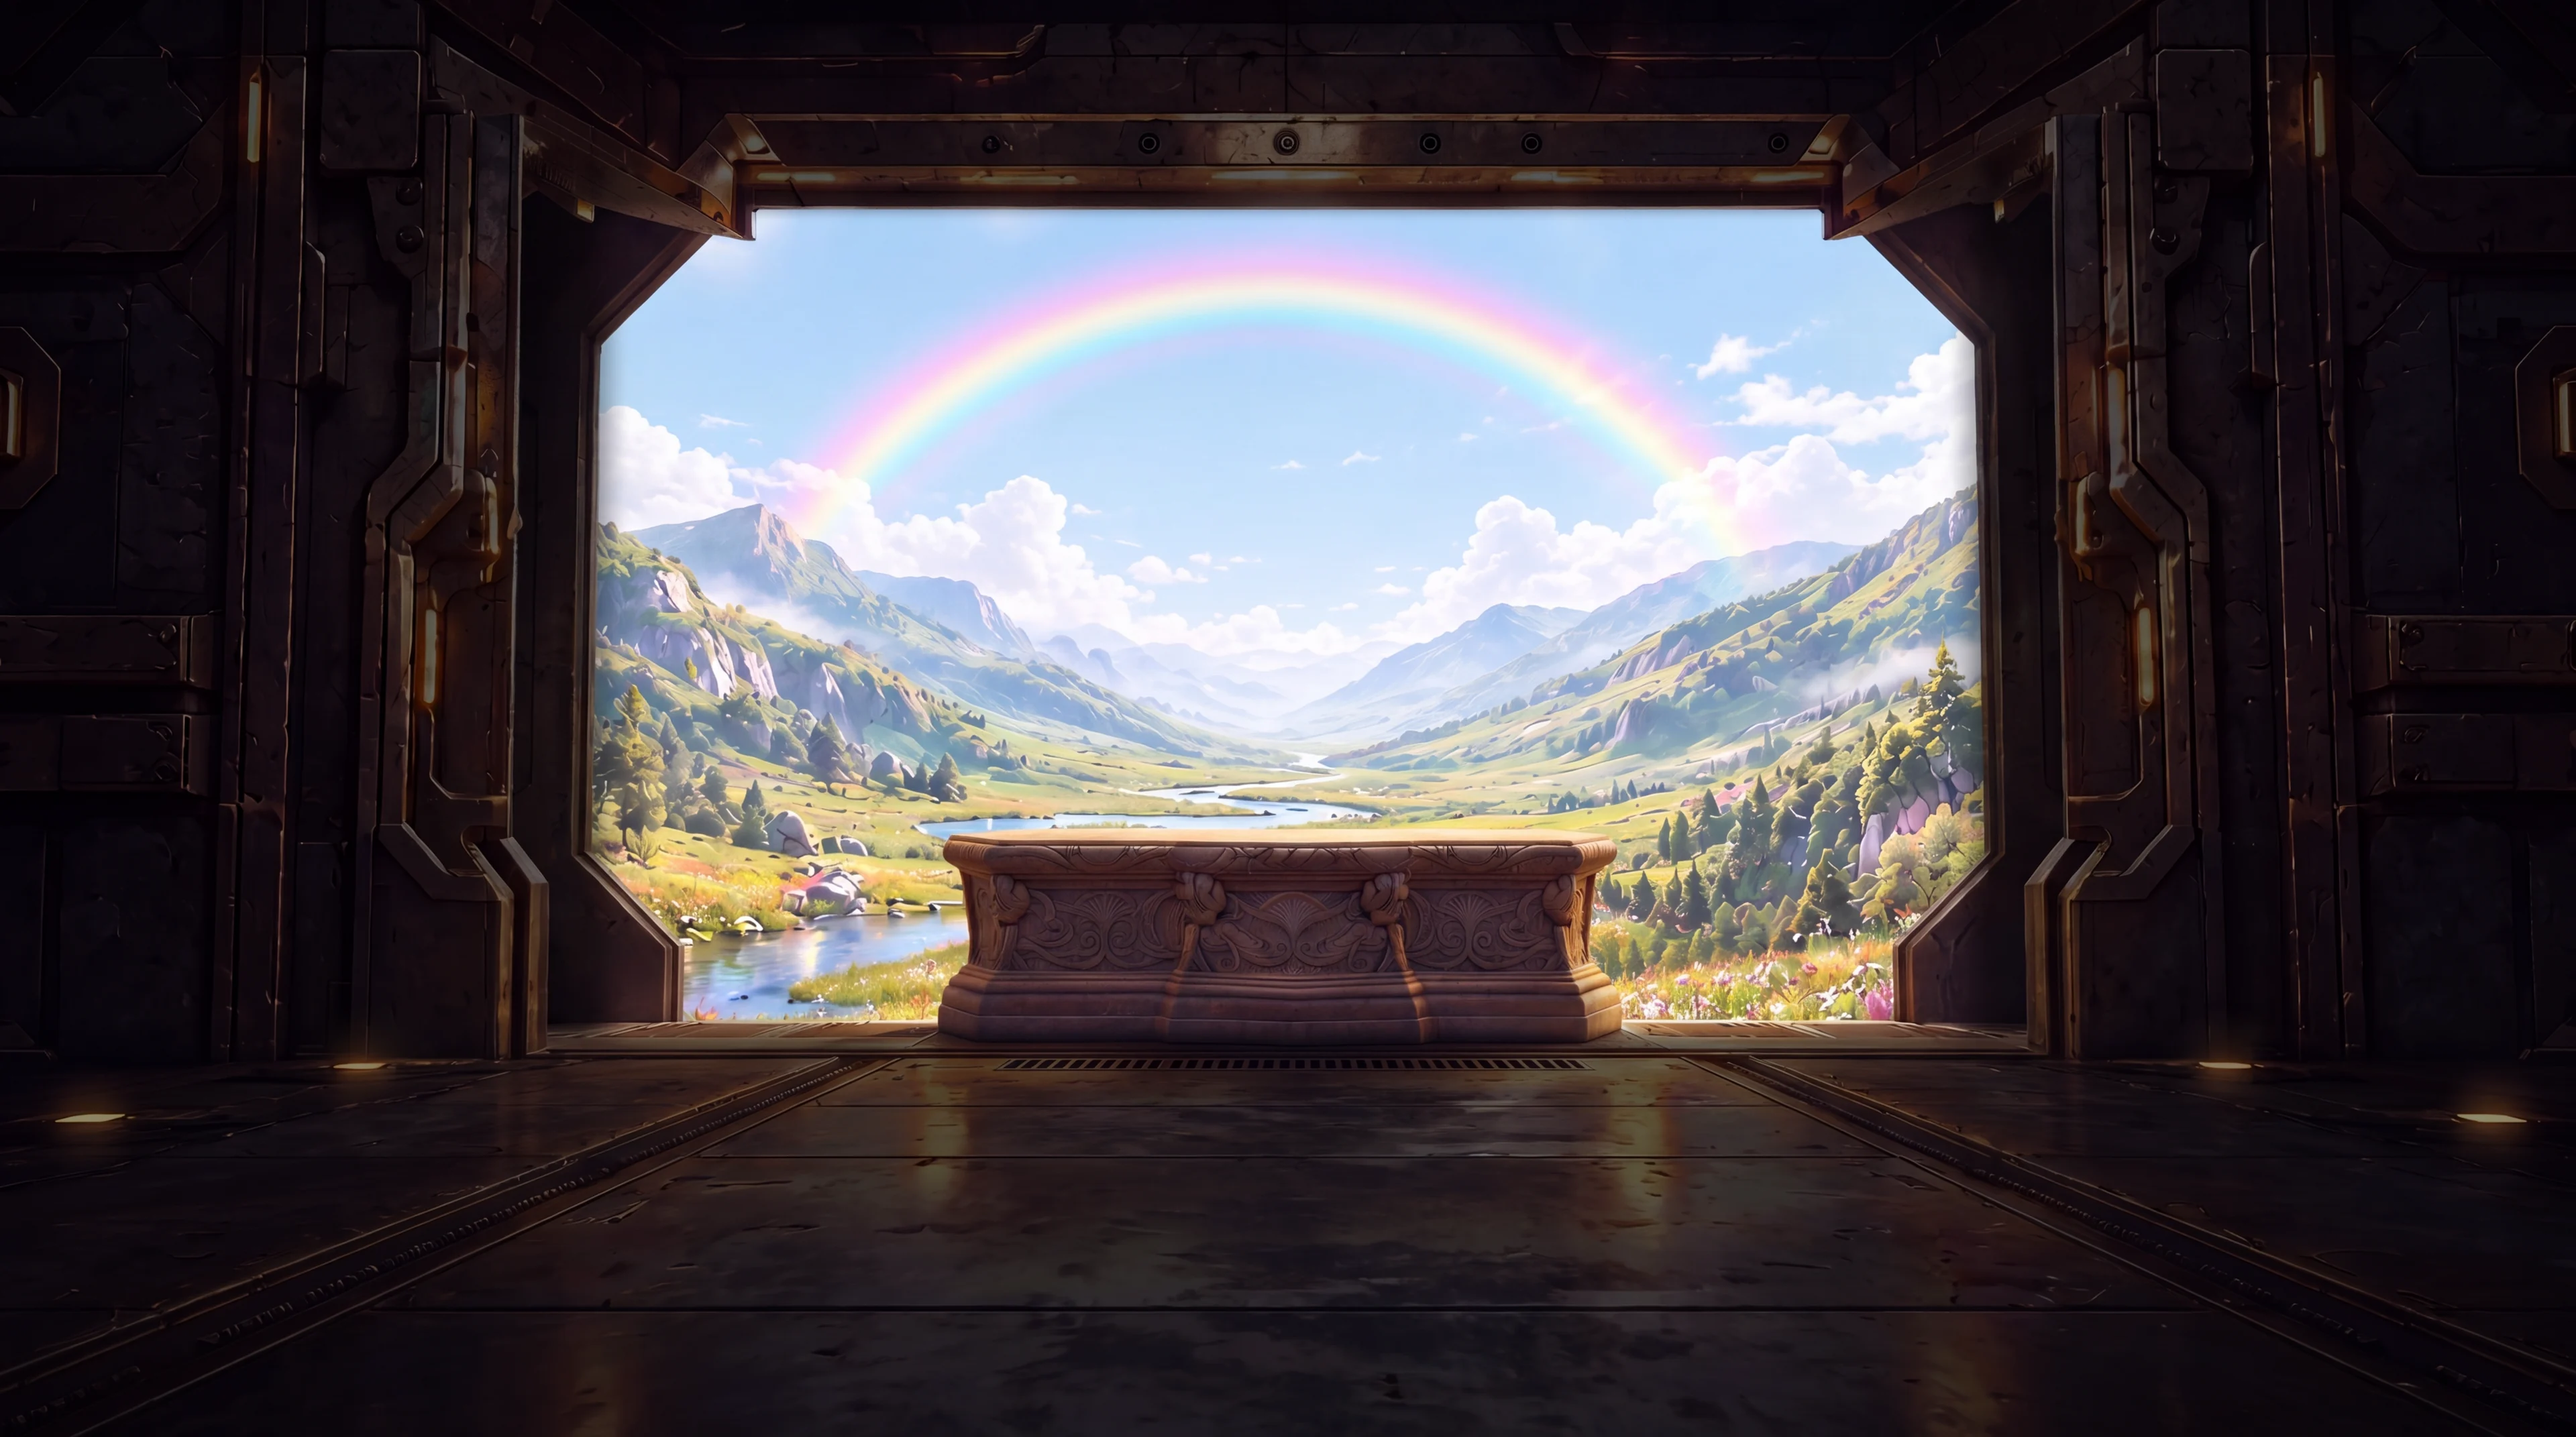
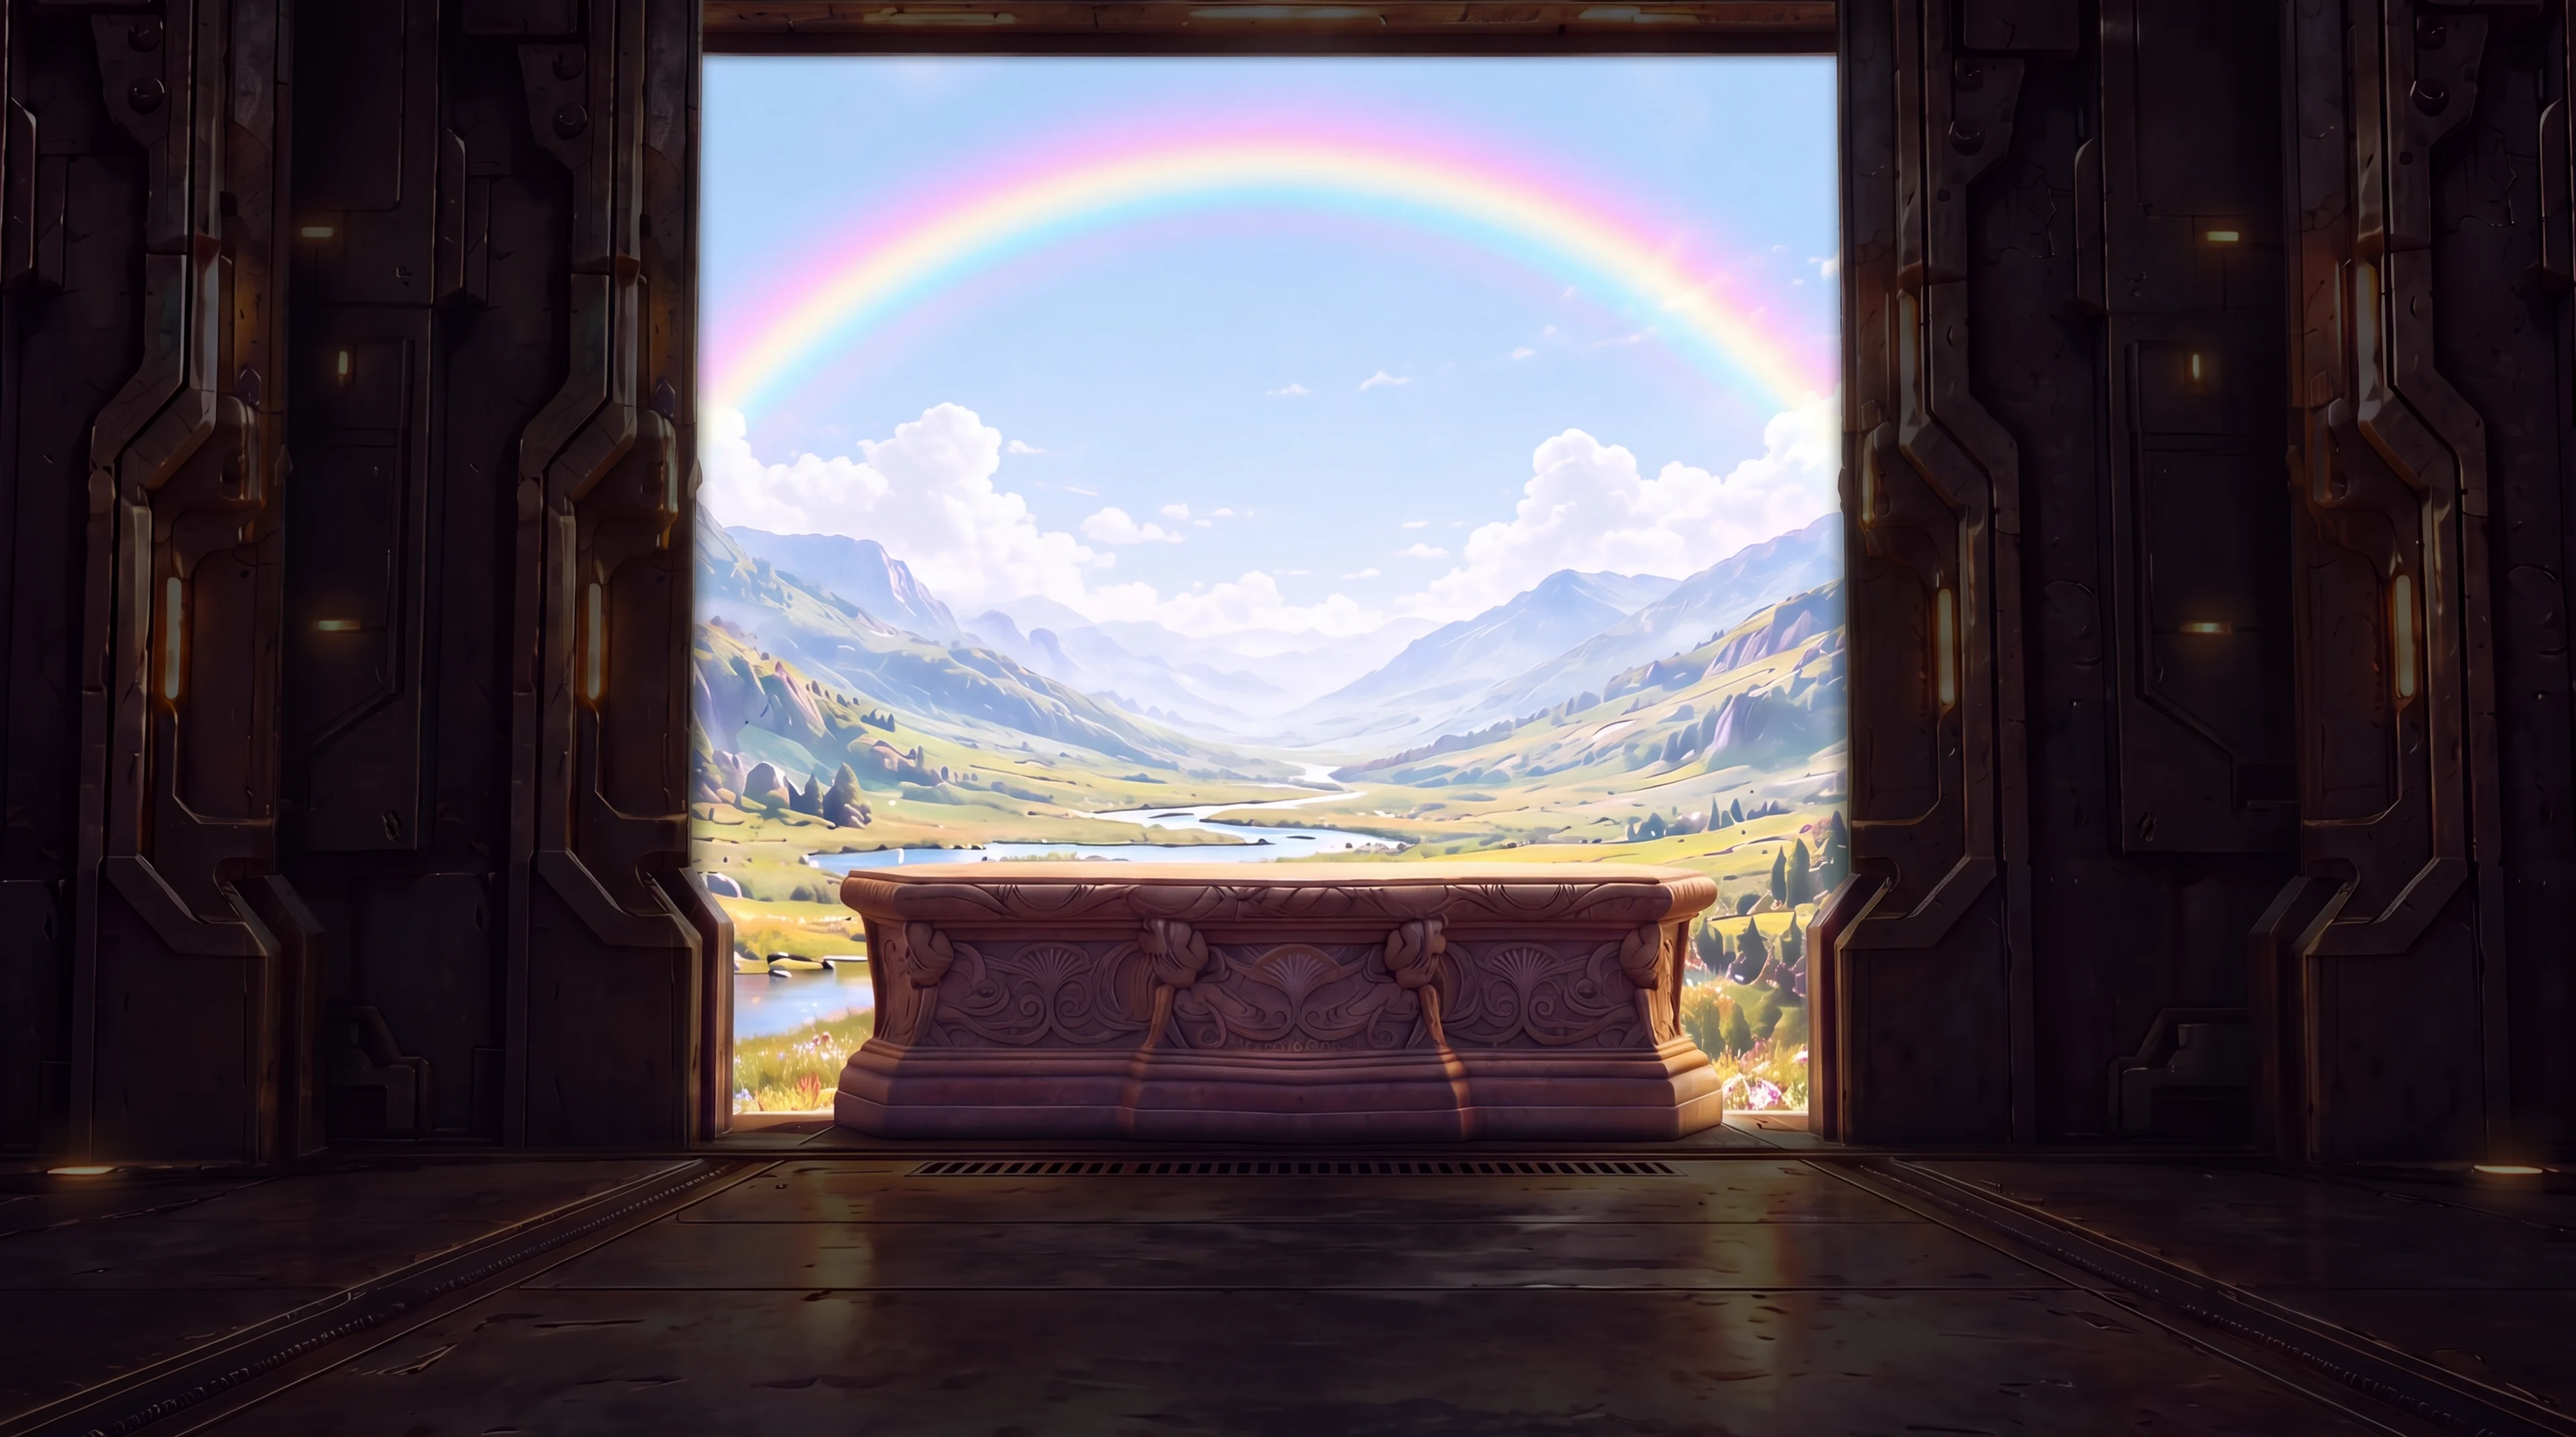
Anuncio del ganador más cerca y con la puerta más angosta
Fondo acercado (pedestal al 60,5% del alto, con su frente detrás de los
datos) y editado con Gemini para que la abertura vaya del 27% al 72% del
ancho: las zonas de los presentadores son pared de metal oscuro. El texto
de arriba pasa a blanco con sombra para leerse sobre el cielo.

diff --git a/index.html b/index.html
@@ -133,7 +133,7 @@ body.spinning .pointer-wrap { animation: none; }
 /* Revelación del ganador: superficie Mystery, solo dentro de la columna central */
 /* Anuncio del ganador: fondo de la bóveda abierta al valle en todo el escenario (metal oscuro en los
    lados de los presentadores). Arriba el nombre sobre el cielo, la moto y Gali sobre el pedestal
-   (su parte de arriba está al 58% del alto) y abajo los datos sobre el suelo (desde el 72%). */
+   (su parte de arriba está al 61% del alto y su frente queda detrás de los datos de abajo). */
 .winner-bg {
   position: absolute; inset: 0; z-index: 4;
   background: url("assets/fondo-ganador.webp") center / cover no-repeat, var(--n00);
@@ -145,15 +145,15 @@ body.spinning .pointer-wrap { animation: none; }
   position: absolute; left: 0; right: 0; top: 3.2cqh; padding-inline: 2cqh;
   display: flex; flex-direction: column; align-items: center; gap: 4.2cqh;
 }
-.winner .overline { color: var(--n07); font-size: 2.2cqh; letter-spacing: .18em; font-weight: 600; }
+.winner .overline { color: var(--n09); font-size: 2.2cqh; letter-spacing: .18em; font-weight: 700; text-shadow: 0 .2cqh .5cqh rgba(10,11,12,.8), 0 0 1.6cqh rgba(10,11,12,.6); }
 .winner .gali-king {
-  position: absolute; left: 21.1cqh; bottom: 41.6cqh; height: 24cqh; width: auto;
+  position: absolute; left: 20.3cqh; bottom: 39.5cqh; height: 25cqh; width: auto;
   filter: drop-shadow(0 1.2cqh 1.2cqh rgba(0,0,0,.55));
   animation: king .7s .15s cubic-bezier(.2, 1.5, .4, 1) both;
 }
 @keyframes king { from { transform: translateY(40%) scale(.6); opacity: 0; } }
 .winner .prize-img {
-  position: absolute; left: 33.9cqh; bottom: 41.6cqh; height: 30cqh; width: auto; object-fit: contain;
+  position: absolute; left: 32.8cqh; bottom: 39.5cqh; height: 32cqh; width: auto; object-fit: contain;
   filter: drop-shadow(0 1.2cqh 1.4cqh rgba(0,0,0,.55));
   animation: ride .9s cubic-bezier(.2, 1.15, .3, 1) both;
 }

diff --git a/README.md b/README.md
@@ -64,7 +64,7 @@ Aplican a cualquier cambio, lo haga una persona o una IA.
 3. **Cada casilla mide según los tickets de su dueño.** La flecha debe detenerse dentro de la casilla del ganador. Los nombres se achican para caber en su casilla y no se dibujan si no caben legibles.
 4. **Nunca mostrar el total de tickets en juego.** Ni en pantalla ni en el panel.
 5. **El anuncio del ganador muestra:** la moto, el nombre, la empresa, la sede (Location), los juegos en el mes, el puntaje máximo y los tickets. Cada cifra lleva su ícono glow del Galiverso: flecha circular para los juegos, check para el puntaje y GaliTicket para los tickets. No mostrar el número de sorteo ni la cantidad de participantes.
-   **Composición del anuncio:** el fondo `fondo-ganador.webp` cubre todo el escenario; sus paredes y su suelo de metal son muy oscuros para no iluminar a los presentadores, y la abertura al valle coincide con la columna central. Arriba, sobre el cielo, van el texto de arriba y el nombre; la moto y Gali con corona van parados sobre el pedestal (su parte de arriba está al 58% del alto); abajo, sobre el suelo (desde el 72%), van la empresa, la sede, las cifras y los botones. Si se cambia la imagen de fondo, hay que volver a medir esas alturas.
+   **Composición del anuncio:** el fondo `fondo-ganador.webp` cubre todo el escenario; sus paredes y su suelo de metal son muy oscuros para no iluminar a los presentadores, y la abertura al valle coincide con la columna central. Arriba, sobre el cielo, van el texto de arriba y el nombre; la moto y Gali con corona van parados sobre el pedestal (su parte de arriba está al 61% del alto); abajo van la empresa, la sede, las cifras y los botones, con el frente del pedestal detrás. La abertura al valle va del 27% al 72% del ancho, dentro de la columna central: las zonas de los presentadores son pared de metal oscuro. Si se cambia la imagen de fondo, hay que volver a medir esas alturas.
 6. **Empresas excluidas por defecto:** Auteco, La Causa y Galilei. Se activan desde el panel.
 7. **Sistema visual de marca Galilei** (definido por el equipo de diseño; no volver al estilo anterior):
    - **Las casillas van solo en los azules de la marca, sin grises ni verdes** (valores exactos de los tokens de Figma): `#ABE3F8` (info-light), `#61BDDF` (info-vivid) y `#17536A` (info-dark). Oscuro y claro se alternan: la mitad de las casillas son `#17536A` y entre cada dos va `#ABE3F8` o `#61BDDF`, turnándose. El aro y los bombillos siguen en neutros. Nombres: `#0A0B0C` sobre los azules claros y `#ABE3F8` sobre el azul oscuro.
